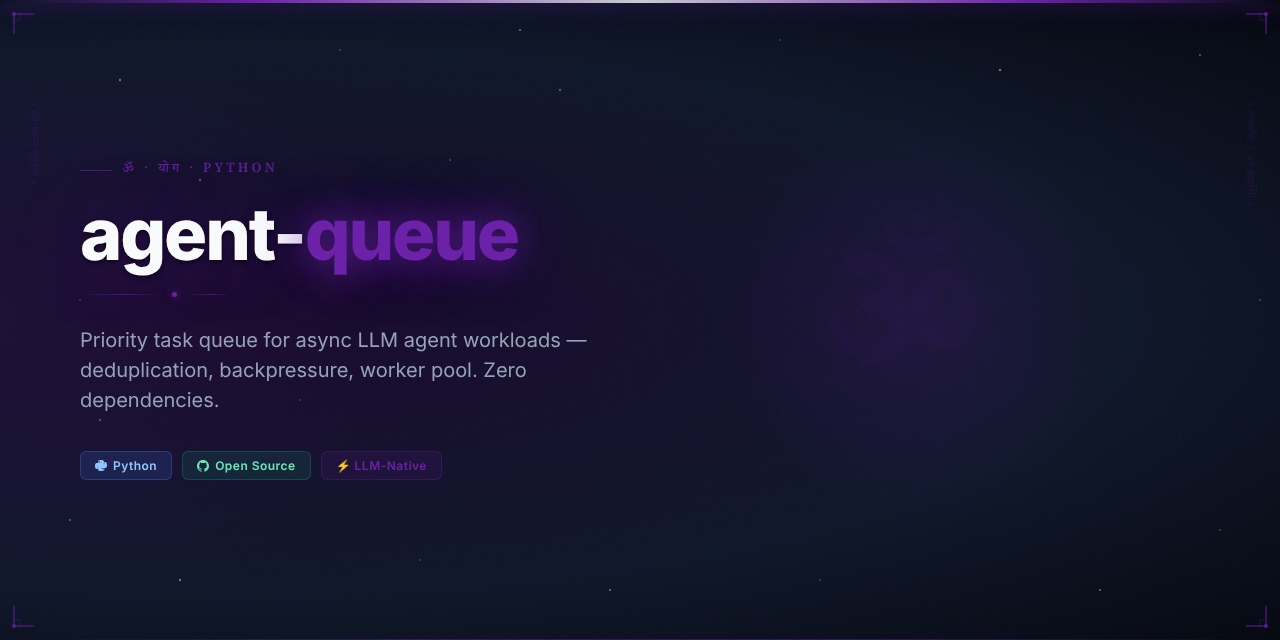
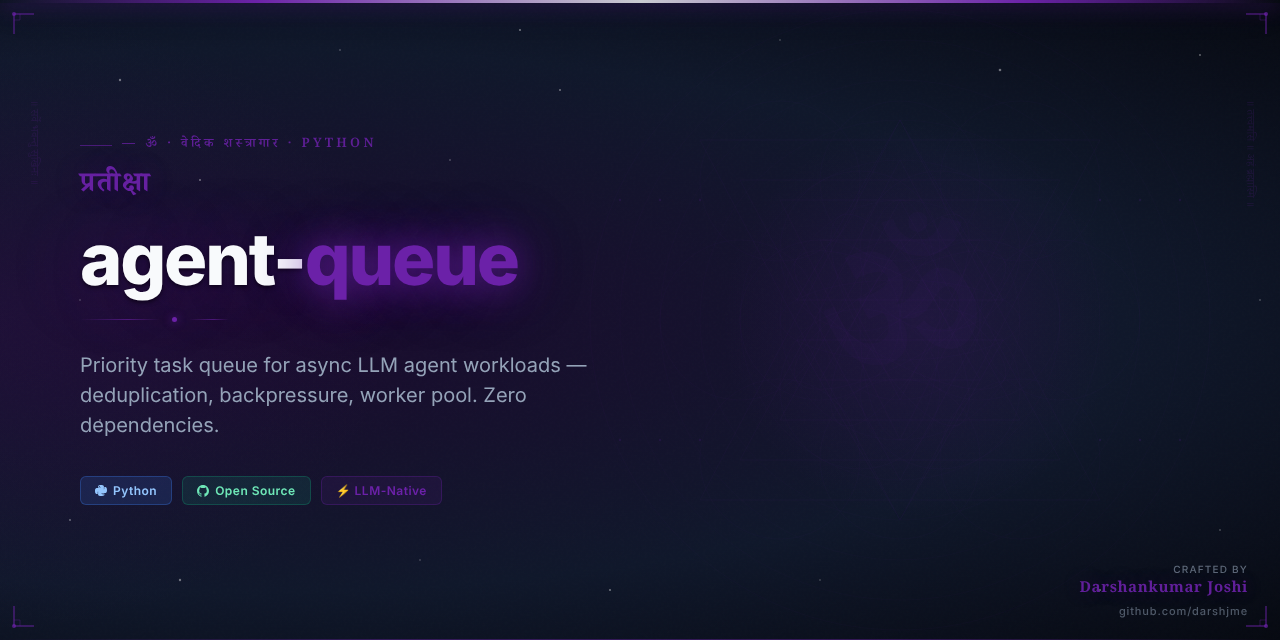
feat: add Vedic Arsenal hero image and updated README
Part of darshjme/arsenal — 100 production-grade Python libraries for LLM agents.
Vedic branding: ancient philosophy meets modern AI engineering.

diff --git a/README.md b/README.md
@@ -1,10 +1,12 @@
 <div align="center">
 
-<img src="assets/agent-queue-hero.png" alt="agent-queue — Vedic Arsenal" width="100%" />
+<img src="assets/agent-queue-hero.png" alt="agent-queue — Vedic Arsenal by Darshankumar Joshi" width="100%" />
 
 # 🔮 agent-queue
 
-### *प्रतीक्षा* — Pratiksha — sacred waiting, the queue of karma
+<h3><em>प्रतीक्षा</em></h3>
+
+> *Pratiksha — sacred waiting, the queue of karma*
 
 **Priority task queue for async LLM agent workloads — deduplication, backpressure, worker pool. Zero dependencies.**
 
@@ -39,6 +41,19 @@ Or clone directly:
 git clone https://github.com/darshjme/agent-queue.git
 cd agent-queue
 pip install -e .
+```
+
+## How It Works
+
+```mermaid
+flowchart LR
+    A[Input] --> B[agent-queue]
+    B --> C{Process}
+    C -- Success --> D[Output]
+    C -- Error --> E[Handle / Retry]
+    E --> B
+    style B fill:#6b21a8,color:#fff
+    note["Queue — Zero Dependencies"]
 ```
 
 ## Quick Start
@@ -90,7 +105,7 @@ MIT — use freely, build freely.
 
 <div align="center">
 
-**Built with 🔮 by [Darshankumar Joshi](https://github.com/darshjme)**
+**Built with 🔮 by [Darshankumar Joshi](https://github.com/darshjme)** · [@thedarshanjoshi](https://twitter.com/thedarshanjoshi)
 
 *"कर्मण्येवाधिकारस्ते मा फलेषु कदाचन"*
 *Your right is to action alone, never to the fruits thereof.*
